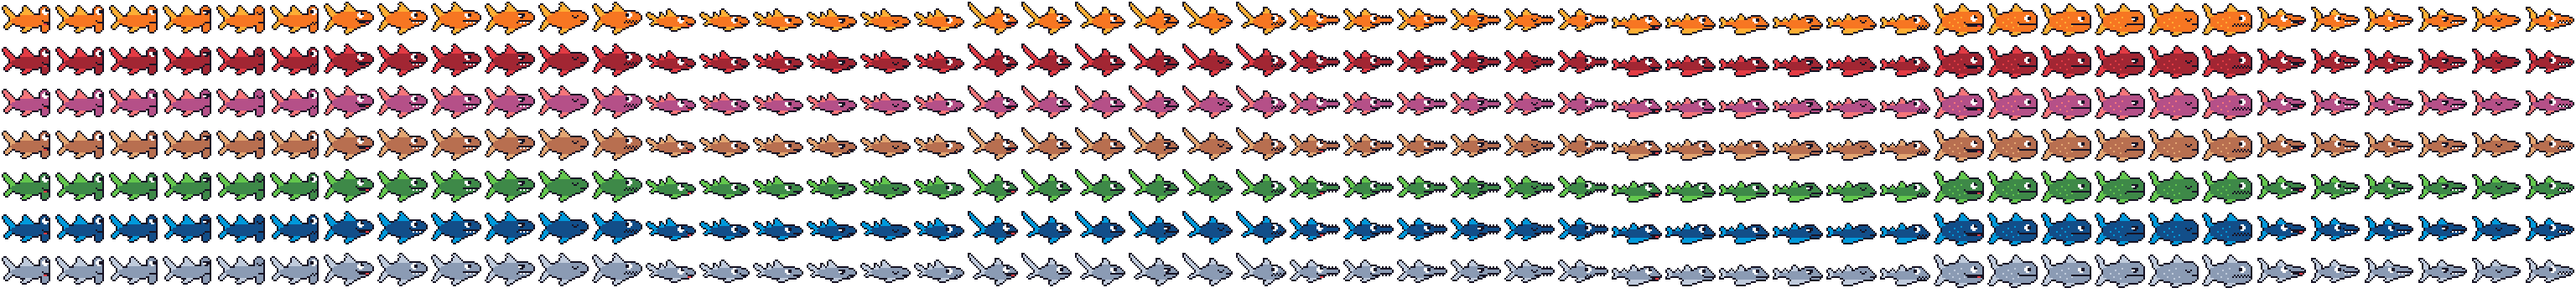
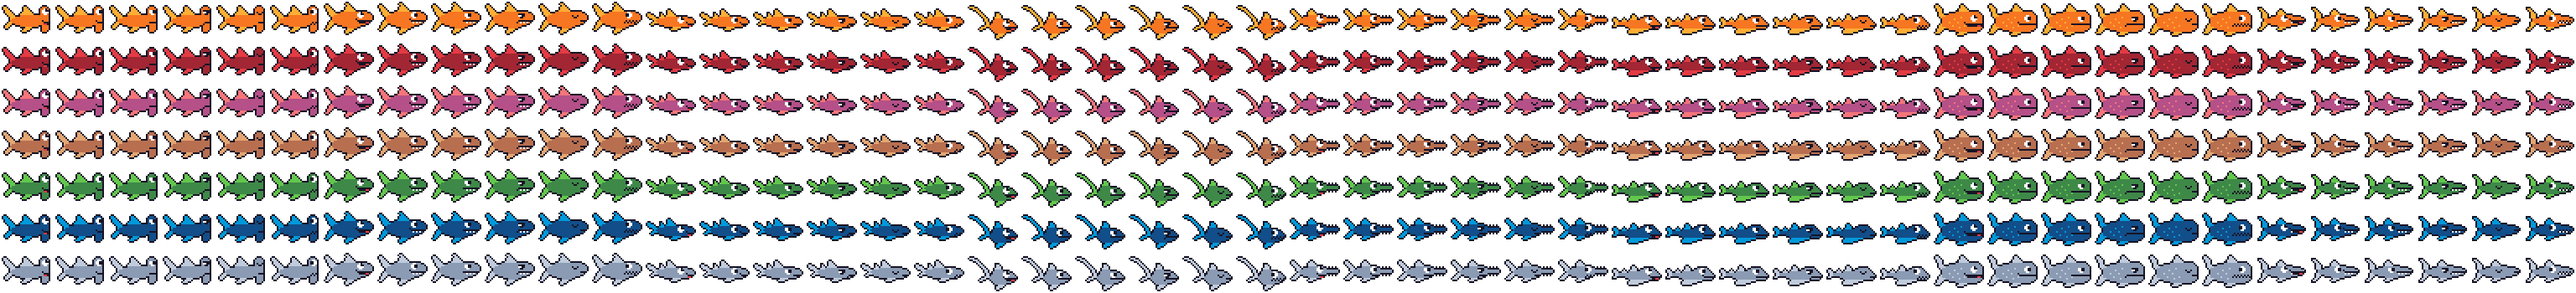
Thresher with a longer whip curling back at the tip
The thresher's upper tail lobe is now a thin whip as long as its body, curling back at the tip, with a smaller lower lobe; the body sits lower and shorter to make room. Every face and swim pose is rebuilt from the new drawing, the previews are regenerated, and the style guide's thresher exception is now its 2-px whip.

diff --git a/art/STYLE.md b/art/STYLE.md
@@ -74,16 +74,15 @@ stay whole and the base never moves. 1-pixel changes are enough: they read in mo
 | `1-tech-hammerhead` | Information Technology, Communication Services | Hammerhead: a tall, thin hammer at the front, the eye at its top | Tall dorsal, long upper tail lobe |
 | `2-finance-great-white` | Financials, Real Estate | Great white: straight back, curved belly, tall blunt snout | Big triangular dorsal; toothy grin (fixed teeth, `w`) |
 | `3-consumer-nurse` | Consumer Discretionary, Consumer Staples | Nurse shark: slim and low, blunt head | Two swept-back dorsals near the tail; big upper tail lobe, small lower one |
-| `4-energy-thresher` | Energy, Utilities | Thresher: compact body | A huge whip of an upper tail lobe tapering to a point |
+| `4-energy-thresher` | Energy, Utilities | Thresher: short, compact body | A thin whip of an upper tail lobe as long as the body, curling back at the tip |
 | `5-industrial-sawshark` | Industrials, Materials | Sawshark: slim body, long toothed saw | Dorsal, pectoral, shark tail |
 | `6-health-angel` | Health Care | Angel shark: very flat, eye on top | Broad wing-like pectorals, two small dorsals near the tail |
 | `7-fund-whale-shark` | Funds (ETFs, mutual funds) | Whale shark: boxy, flat-topped, spotted (`F`) | Wide mouth right across the front |
 | `8-crypto-mako` | Crypto | Mako: slim, streamlined, full pointed snout | Small dorsal, tall crescent tail whose lobes meet; fixed teeth (`w`) |
 
 The fish of the first versions were replaced by sharks (November 2026). Teeth are drawn in `w`
-below the mouth line and stay put with every mood; asleep they hide. The thresher's whip tail is
-the one exception to rule 6: its tip is a single pixel, because a whip that ends blunt stops
-reading as a thresher.
+below the mouth line and stay put with every mood; asleep they hide. The thresher's whip is the
+one exception to rule 6: it is 2 px thick, because a thicker whip stops reading as a thresher.
 
 ## App icon and logo
 
